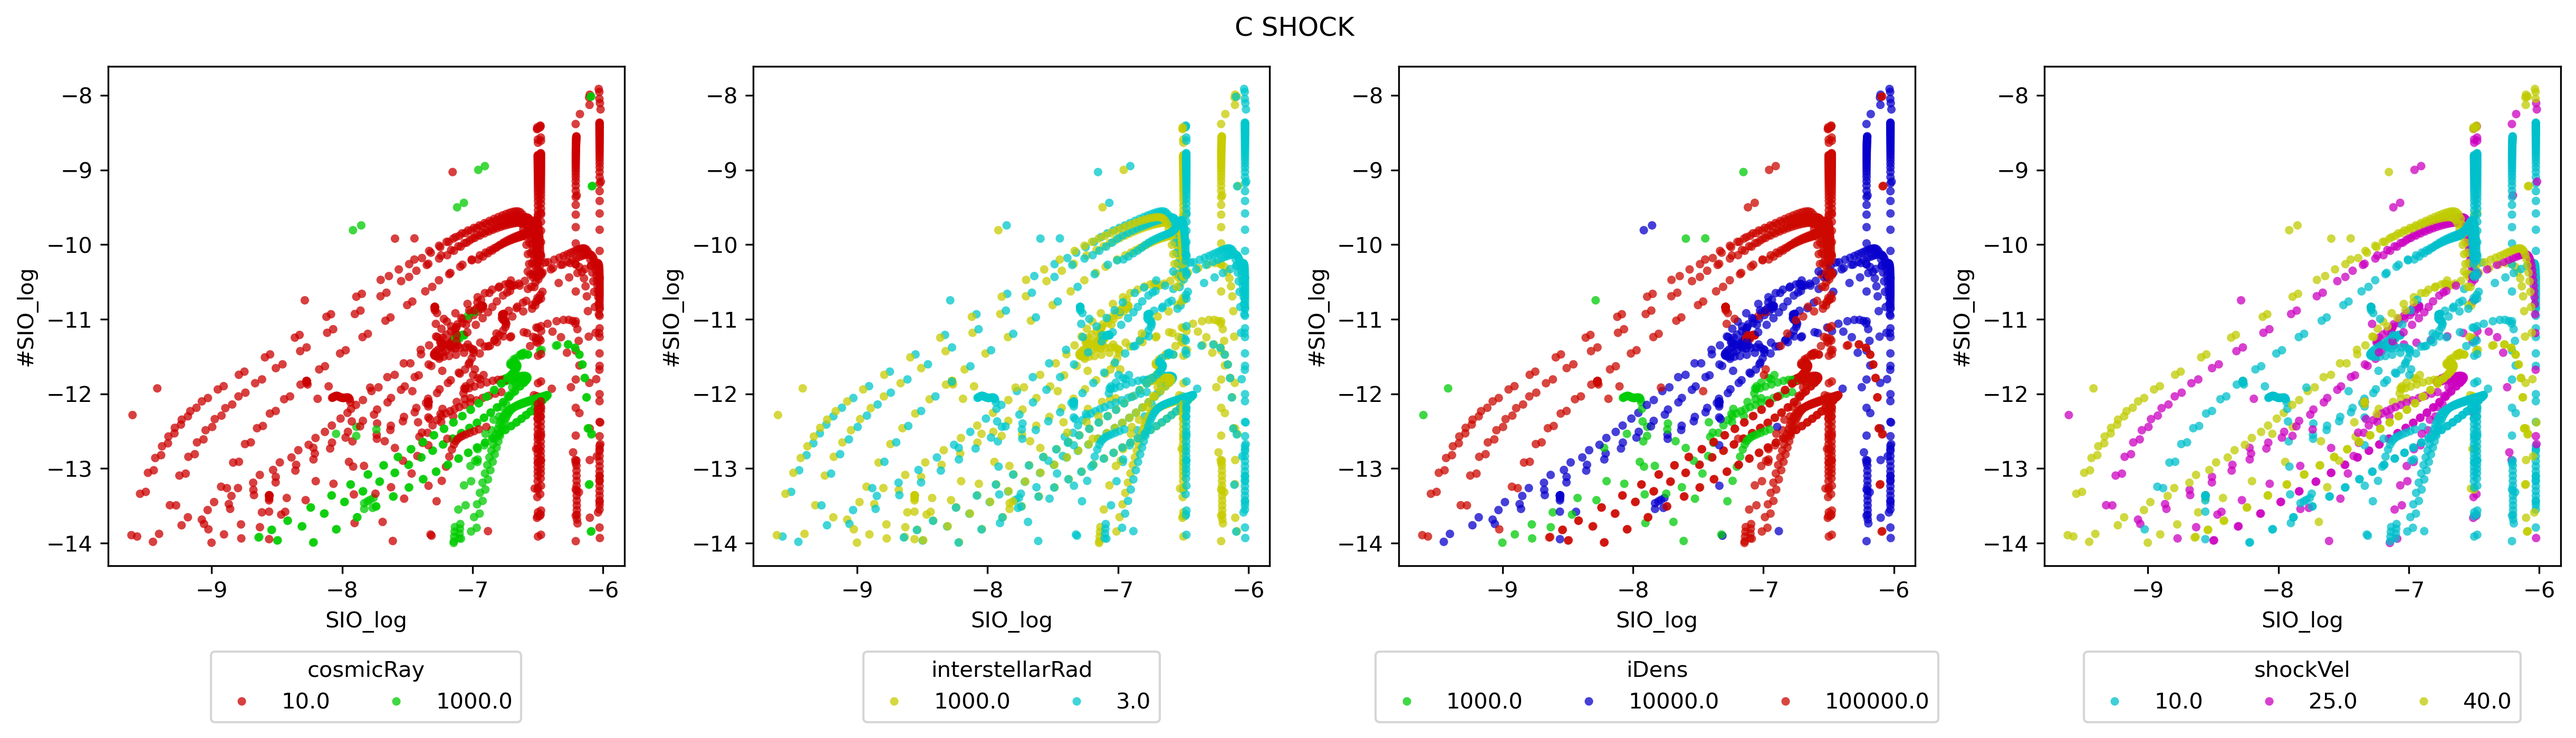
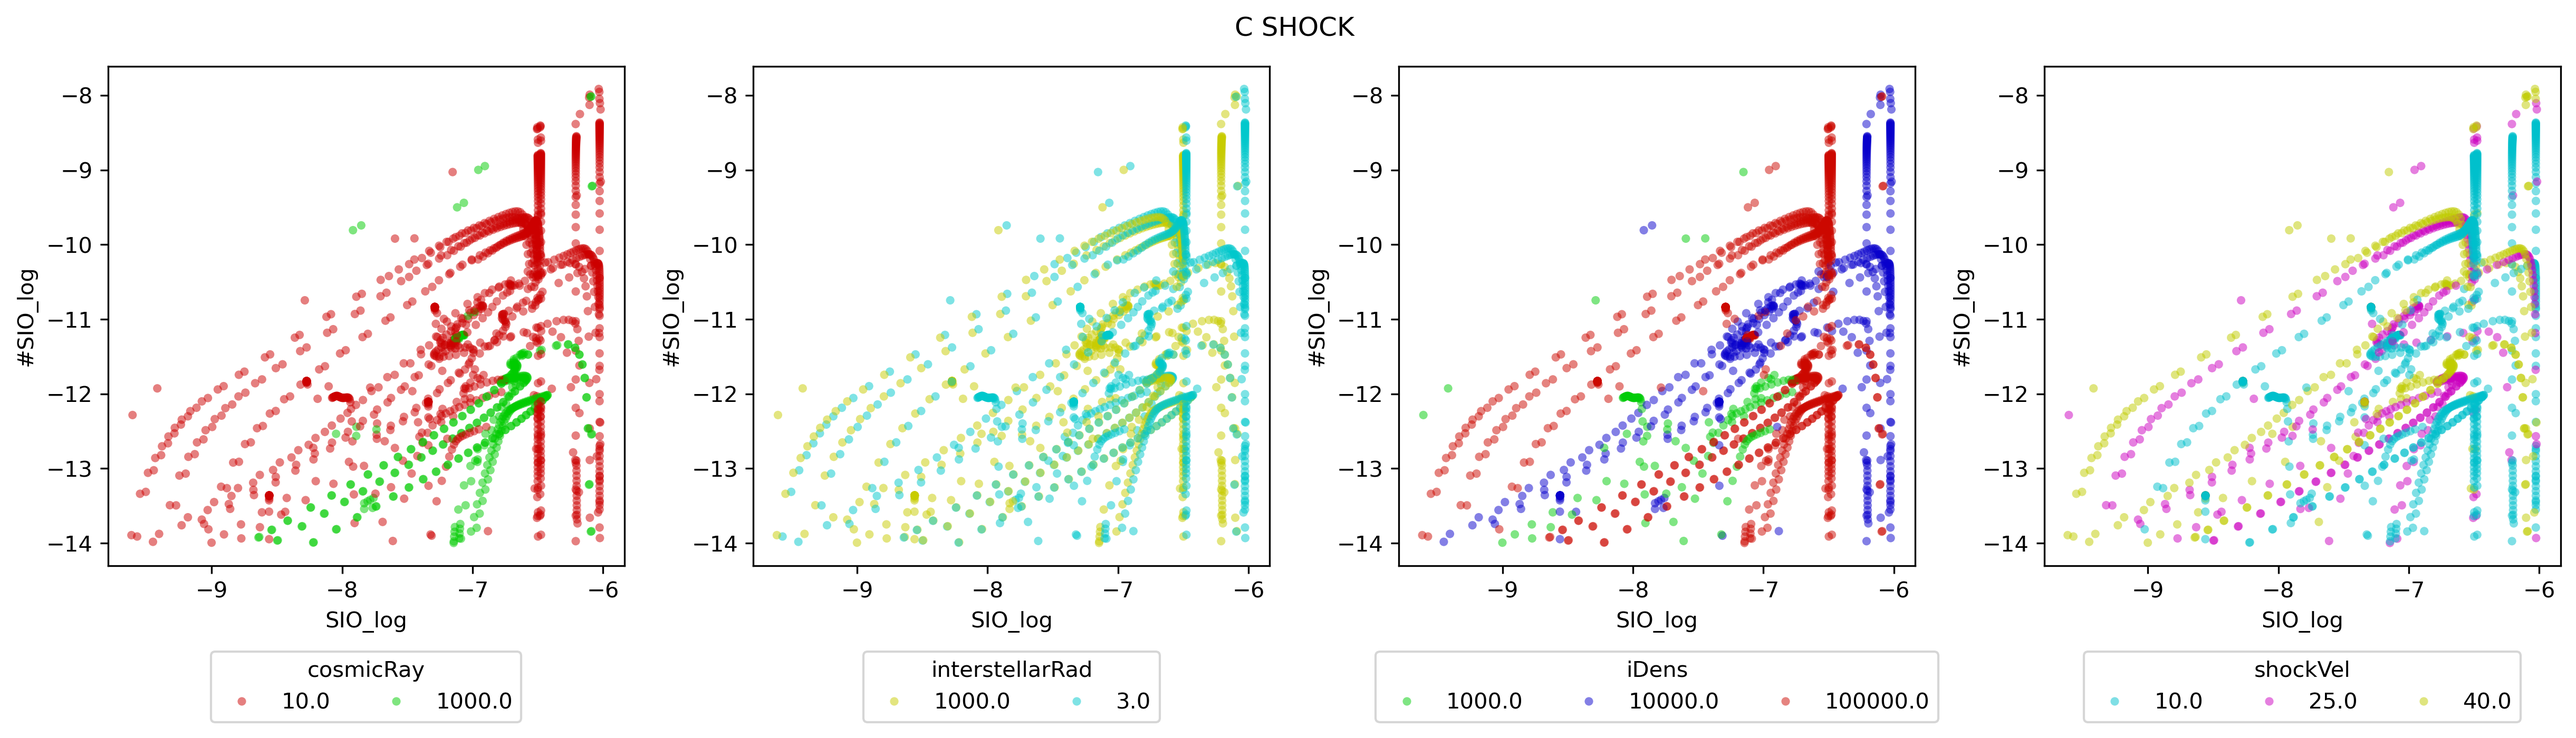
more transparent scatter

diff --git a/Analysis/Plotting.py b/Analysis/Plotting.py
@@ -56,7 +56,7 @@ def plottingGrid(df, xaxis, yaxis, tipo, nameBase, focusList, plotType):
                 sns.scatterplot(df,x=phys,y=spec, ax=axs[j],
                                 hue= focus, palette=sns.hls_palette(s=1, l=.4, h=j*.17, n_colors=3),
                                 linewidth=0, legend='full',
-                                alpha=0.75, s=15
+                                alpha=0.5, s=15
                                 )
             elif plotType == constants.BAND:
                 sns.lineplot(data=df, x=phys,y=spec, ax=axs[j],
